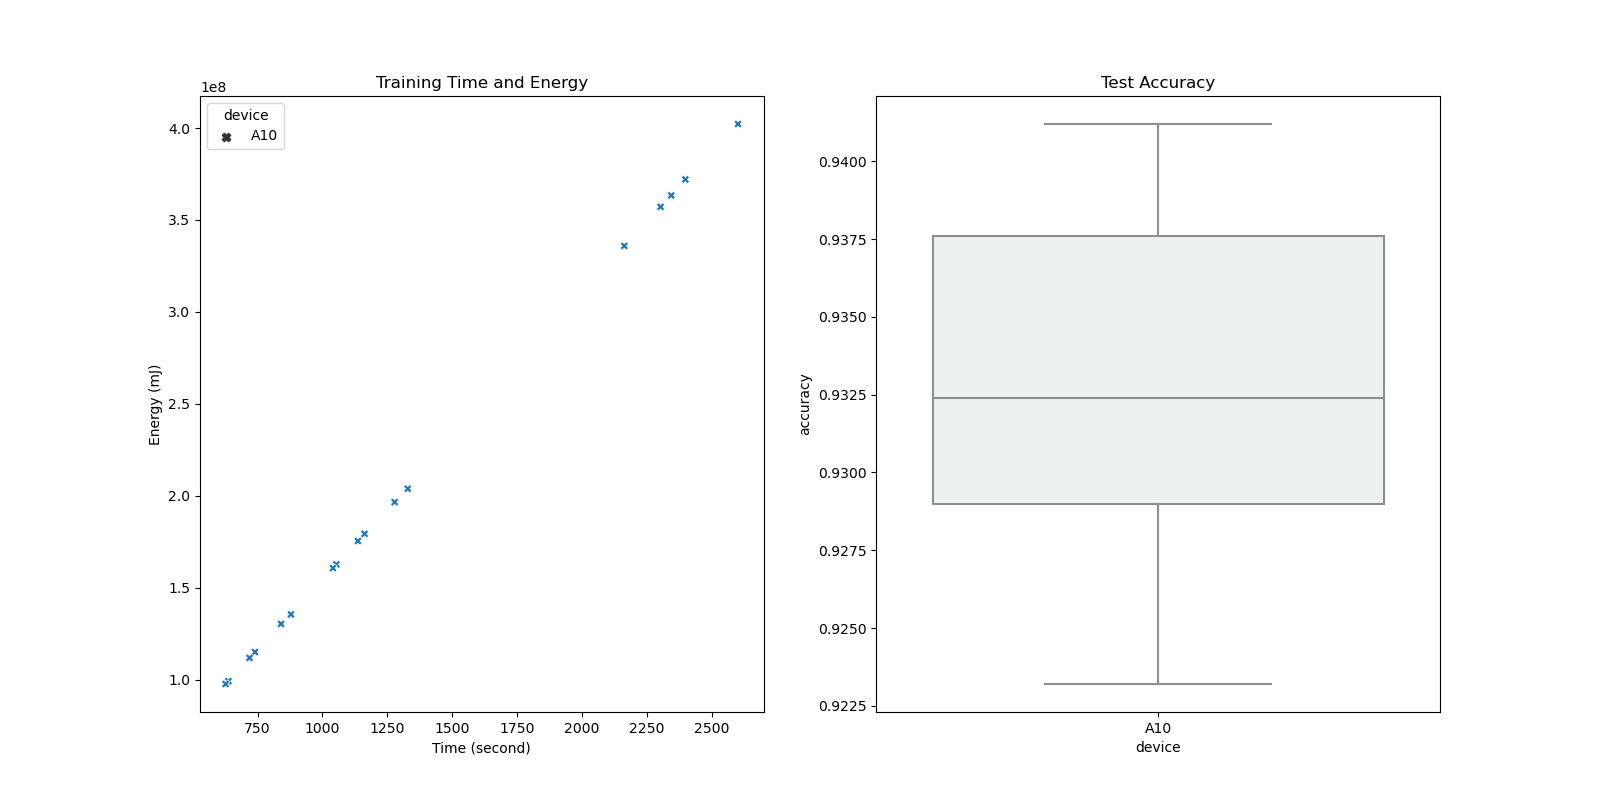
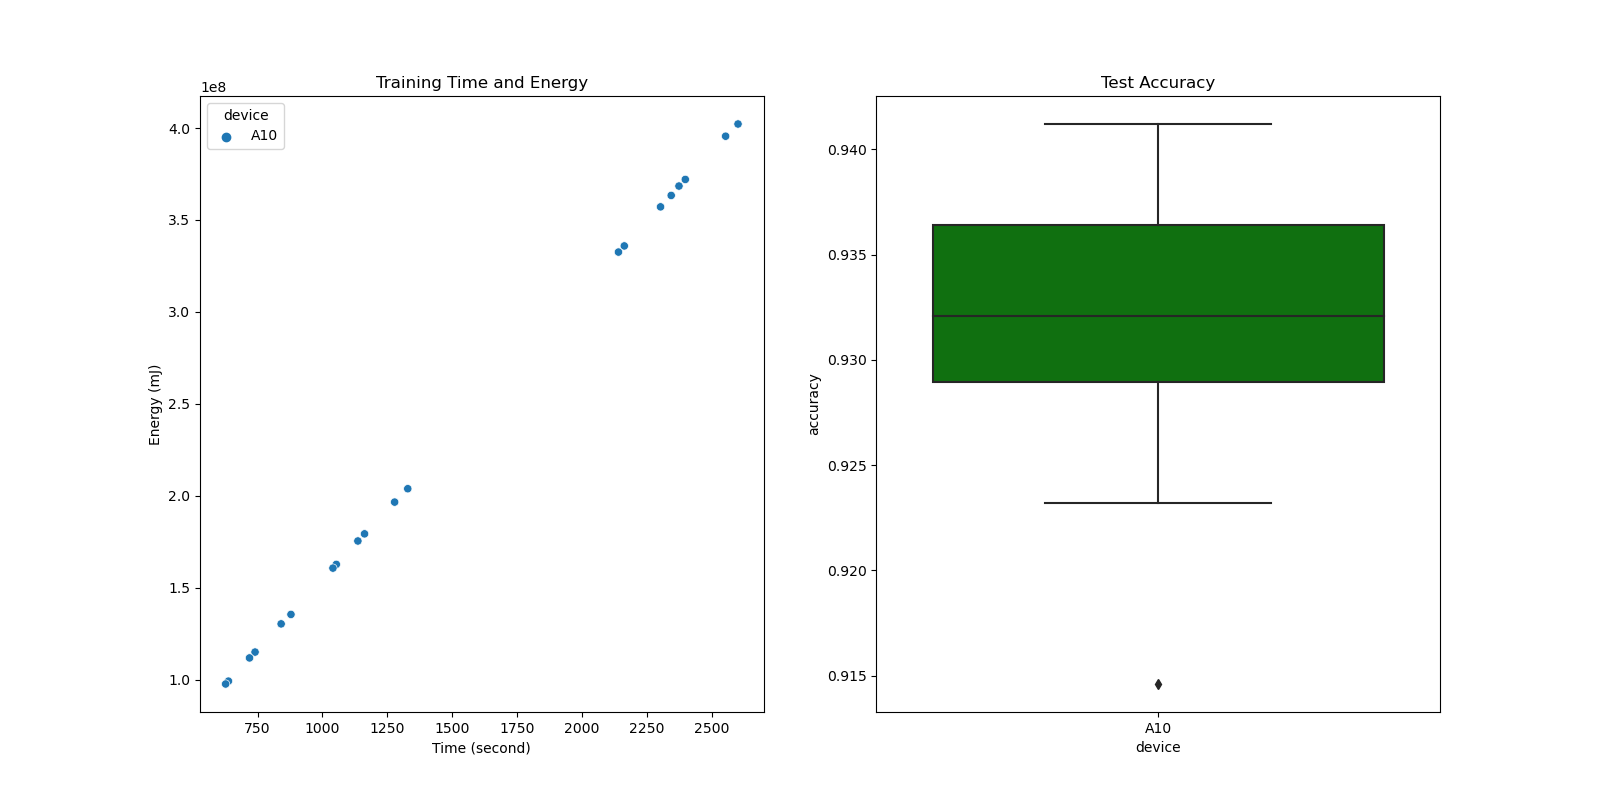
Update

diff --git a/benchmark/systematic_graph.py b/benchmark/systematic_graph.py
@@ -4,7 +4,7 @@ import matplotlib.pyplot as plt
 import numpy as np
 
 # read the csv file
-df = pd.read_csv('profiling_A10.csv')
+df = pd.read_csv('profiling.csv')
 # optimizer,mixed_precision,module,batch_size,device,time,energy,accuracy
 # delete the row which device is T4, V100, A100
 df = df[(df['device'] == 'A10')]
@@ -16,7 +16,7 @@ module = {'lightseq': 'purple', 'huggingface': 'orange'}
 batch_size = {8: 'black', 16: 'pink', 32: 'brown'}
 accuracy_color = {0.92: 'red', 0.93: 'blue', 0.94: 'green'}
 # fig size is 10x10
-palette = sns.light_palette("seagreen")
+decive_color = {'V100': 'red', 'A100': 'blue', 'A10': 'green', 'T4': 'orange'}
 
 # (2, 2) subplots
 figs, ax = plt.subplots(1, 2, figsize=(16, 8))
@@ -25,12 +25,17 @@ figs, ax = plt.subplots(1, 2, figsize=(16, 8))
 ax[0].set(xlabel='Time (second)', ylabel='Energy (mJ)')
 # subplot title
 ax[0].set_title('Training Time and Energy')
-sns.scatterplot(data=df, x='time', y='energy', style='device', markers=markers, ax=ax[0])
+sns.scatterplot(data=df, x='time', y='energy', hue='device', ax=ax[0])
 
-# 2nd subplot, x is cost, y is accuracy
-ax[1].set(xlabel='Cost ($)', ylabel='Accuracy')
-ax[1].set_title('Accuracy and Cost')
-sns.scatterplot(data=df, x='cost', y='accuracy', hue='device', palette=palette, ax=ax[1])
+# 2nd boxplot, y is accuracy, group by device
+ax[1].set(xlabel='Device', ylabel='Accuracy')
+ax[1].set_title('Test Accuracy')
+sns.boxplot(data=df, x='device', y='accuracy', palette=decive_color, ax=ax[1])
+
+# # 2nd subplot, x is cost, y is accuracy
+# ax[1].set(xlabel='Cost ($)', ylabel='Accuracy')
+# ax[1].set_title('Accuracy and Cost')
+# sns.scatterplot(data=df, x='cost', y='accuracy', hue='device', ax=ax[1])
 
 
 # ax[1].set(xlabel='Device', ylabel='Accuracy')

diff --git a/benchmark/gen_col.py b/benchmark/gen_col.py
@@ -50,7 +50,15 @@ for name in ['A10_df', 'A100_df', 'T4_df', 'V100_df']:
         df.loc[index, 'accuracy'] = act_row['accuracy'].values
 
 # add the cost column
-
+df['cost'] = 0
+for index, row in df.iterrows():
+    # time has values and device is A10
+    if df.loc[index, 'device'] == 'A10' and df.loc[index, 'time'].size > 0:
+        cost = df.loc[index, 'time'] * cost_factor[df.loc[index, 'device']] / 3600
+        # keep 4 digits
+        cost = round(cost.item(), 4)
+        df.loc[index, 'cost'] = cost
+    # df.loc[index, 'cost'] = df.loc[index, 'time'] * cost_factor[df.loc[index, 'device']] / 3600
 
 
 

diff --git a/benchmark/tempCodeRunnerFile.py b/benchmark/tempCodeRunnerFile.py
@@ -1,0 +1,6 @@
+for index, row in df.iterrows():
+#     # covert ndarray to float
+#     # print((df.loc[index, 'time'] * cost_factor[df.loc[index, 'device']]))
+#     if df.loc[index, 'device'] == 'A10':
+#         df.loc[index, 'cost'] = df.loc[index, 'time'] * cost_factor[df.loc[index, 'device']] / 3600 * 0.8
+#     # df.loc[index, 'cost'] = df.loc[index, 'time'] * cost_factor[df.loc[index, 'device']] / 3600
